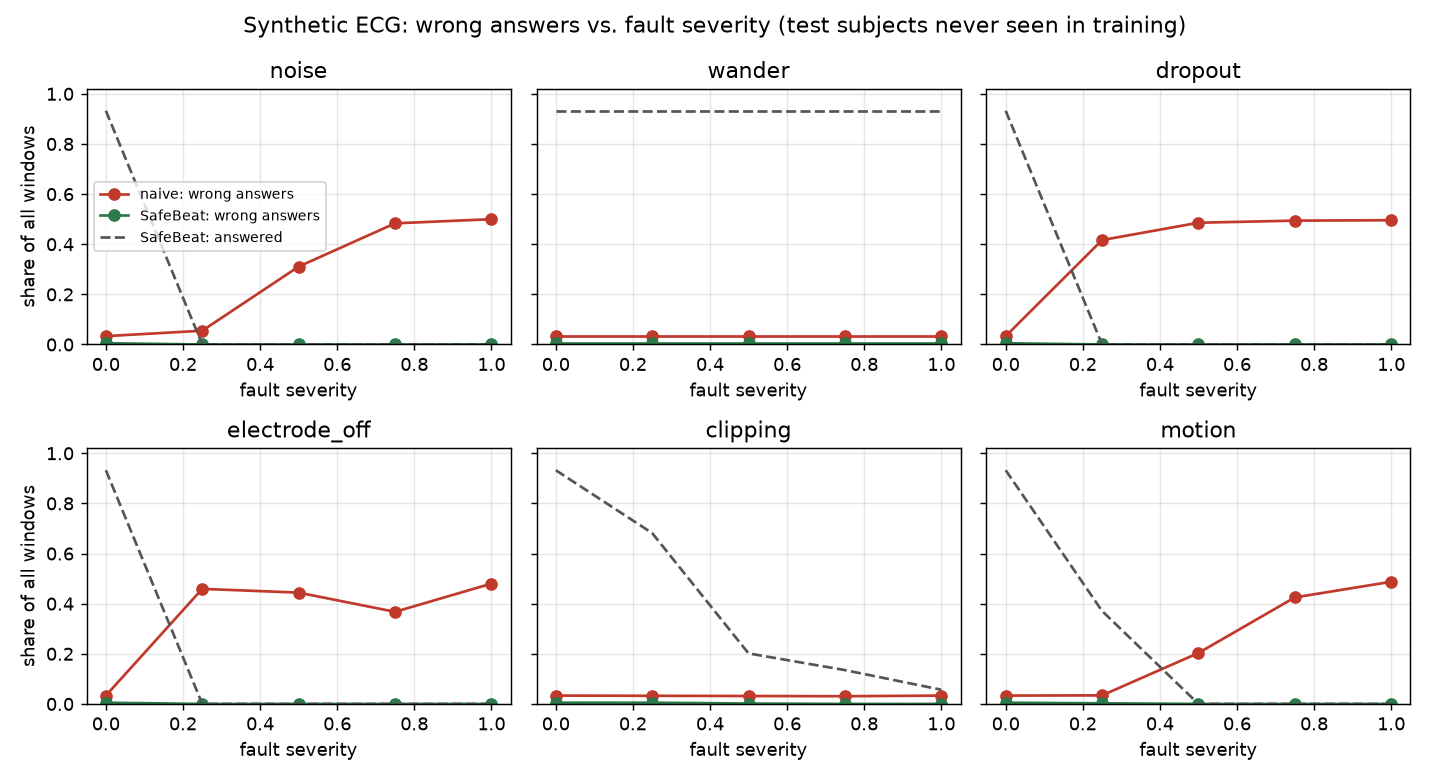
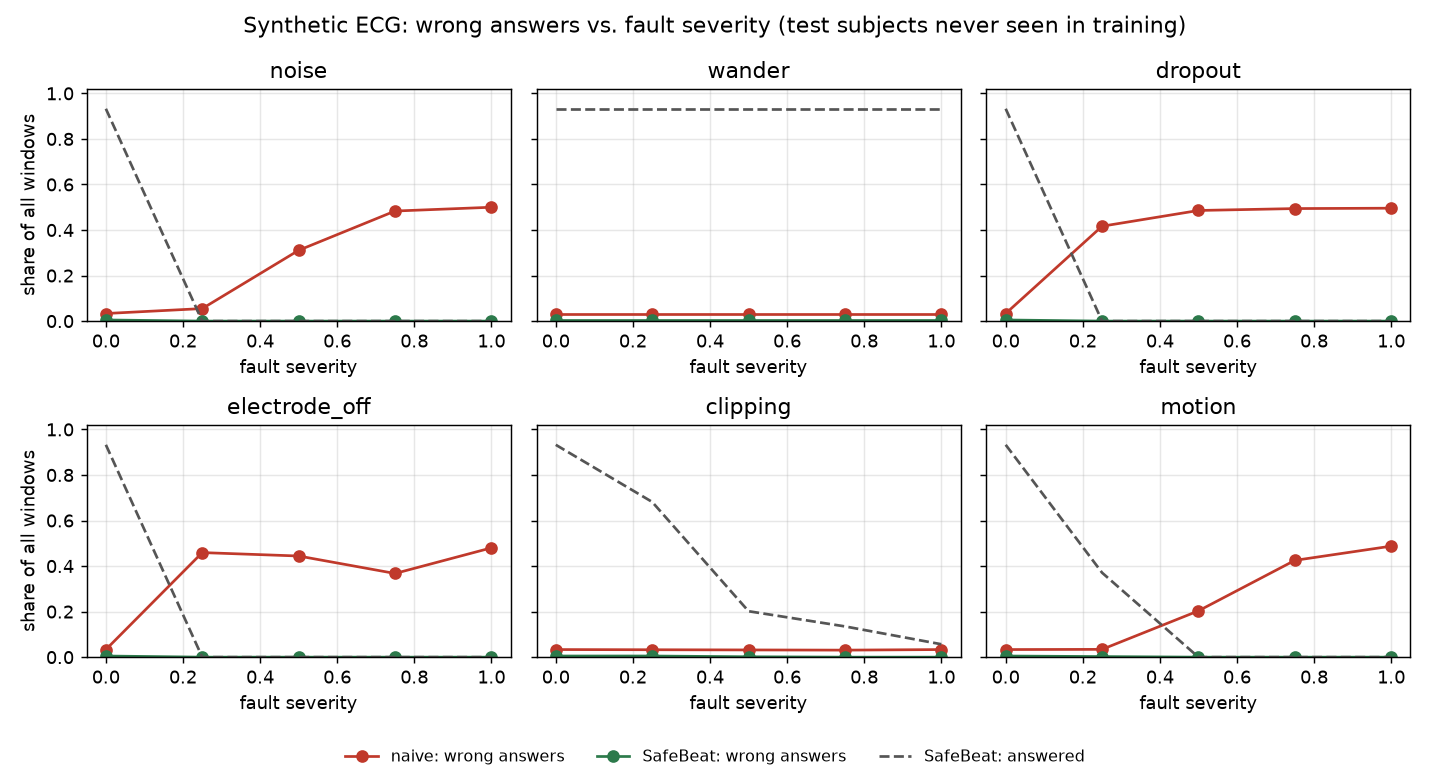
Charts: legends moved below the plots so they no longer cover data

diff --git a/safebeat/evaluate_real.py b/safebeat/evaluate_real.py
@@ -241,10 +241,11 @@ def save(rows, selections=None, out_dir: Path = RESULTS) -> None:
         ax.grid(alpha=0.3)
     axes[0, 0].set_ylabel("class-balanced share of windows")
     axes[1, 0].set_ylabel("class-balanced share of windows")
-    axes[0, 0].legend(fontsize=8, loc="center left")
+    handles, labels = axes[0, 0].get_legend_handles_labels()
+    fig.legend(handles, labels, loc="lower center", bbox_to_anchor=(0.5, 0.03), ncol=3, fontsize=9, frameon=False)
     fig.suptitle("Real ECG (MIT-BIH): regular rhythm vs atrial fibrillation, records never seen in training")
     fig.text(0.5, 0.012, NOTICE, ha="center", fontsize=6.5)
-    fig.tight_layout(rect=(0, 0.04, 1, 1))
+    fig.tight_layout(rect=(0, 0.09, 1, 1))
     fig.savefig(out_dir / "real_mitdb_fault_sweep.png", dpi=130)
     plt.close(fig)
 
@@ -293,10 +294,11 @@ def save(rows, selections=None, out_dir: Path = RESULTS) -> None:
             ax.grid(alpha=0.3)
         axes[0, 0].set_ylabel("class-balanced share of windows")
         axes[1, 0].set_ylabel("class-balanced share of windows")
-        axes[0, 0].legend(fontsize=7, loc="center left")
+        handles, labels = axes[0, 0].get_legend_handles_labels()
+        fig.legend(handles, labels, loc="lower center", bbox_to_anchor=(0.5, 0.03), ncol=3, fontsize=8.5, frameon=False)
         fig.suptitle("Real ECG (MIT-BIH): gate margin chosen on separate records, tested on untouched records")
         fig.text(0.5, 0.012, NOTICE, ha="center", fontsize=6.5)
-        fig.tight_layout(rect=(0, 0.04, 1, 1))
+        fig.tight_layout(rect=(0, 0.12, 1, 1))
         fig.savefig(out_dir / "real_mitdb_validated.png", dpi=130)
         plt.close(fig)
 

diff --git a/safebeat/evaluate.py b/safebeat/evaluate.py
@@ -107,9 +107,10 @@ def save(fault_rows, margin_rows, out_dir: Path = RESULTS) -> None:
         ax.grid(alpha=0.3)
     axes[0, 0].set_ylabel("share of all windows")
     axes[1, 0].set_ylabel("share of all windows")
-    axes[0, 0].legend(fontsize=8, loc="center left")
+    handles, labels = axes[0, 0].get_legend_handles_labels()
+    fig.legend(handles, labels, loc="lower center", ncol=3, fontsize=9, frameon=False)
     fig.suptitle("Synthetic ECG: wrong answers vs. fault severity (test subjects never seen in training)")
-    fig.tight_layout()
+    fig.tight_layout(rect=(0, 0.06, 1, 1))
     fig.savefig(out_dir / "fault_sweep.png", dpi=130)
     plt.close(fig)
 
